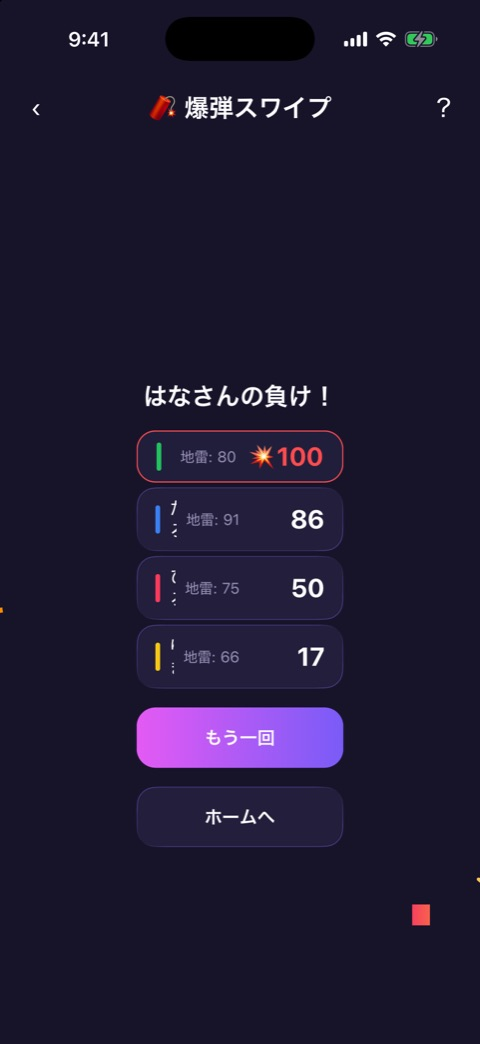
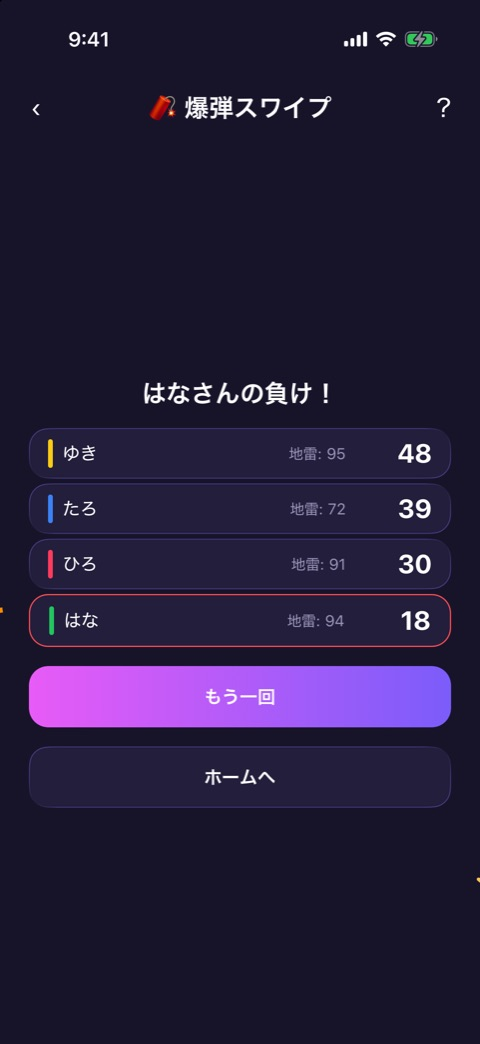
docs: 爆弾スワイプの画面設計書を、リザルトの修正後の表示に合わせる (#167)
結果のスクリーンショットを撮り直し、補足から不具合の記述を外した。

diff --git a/docs/screens/bomb-swipe.md b/docs/screens/bomb-swipe.md
@@ -98,7 +98,3 @@
 ## テスト
 
 - `src/games/bomb-swipe/__tests__/`（`engine`、`gauge`、`round-result`、`bomb-swipe-game`）
-
-## 補足
-
-- **結果のスコアの一覧で、名前がつぶれて読めません**。スクリーンショットでは、ひろ・たろ・ゆきの名前が縦に1文字ずつ折り返して切れています。一覧の行の幅が狭く、名前の欄（`flex: 1`）に幅が残っていないためと思われます。
